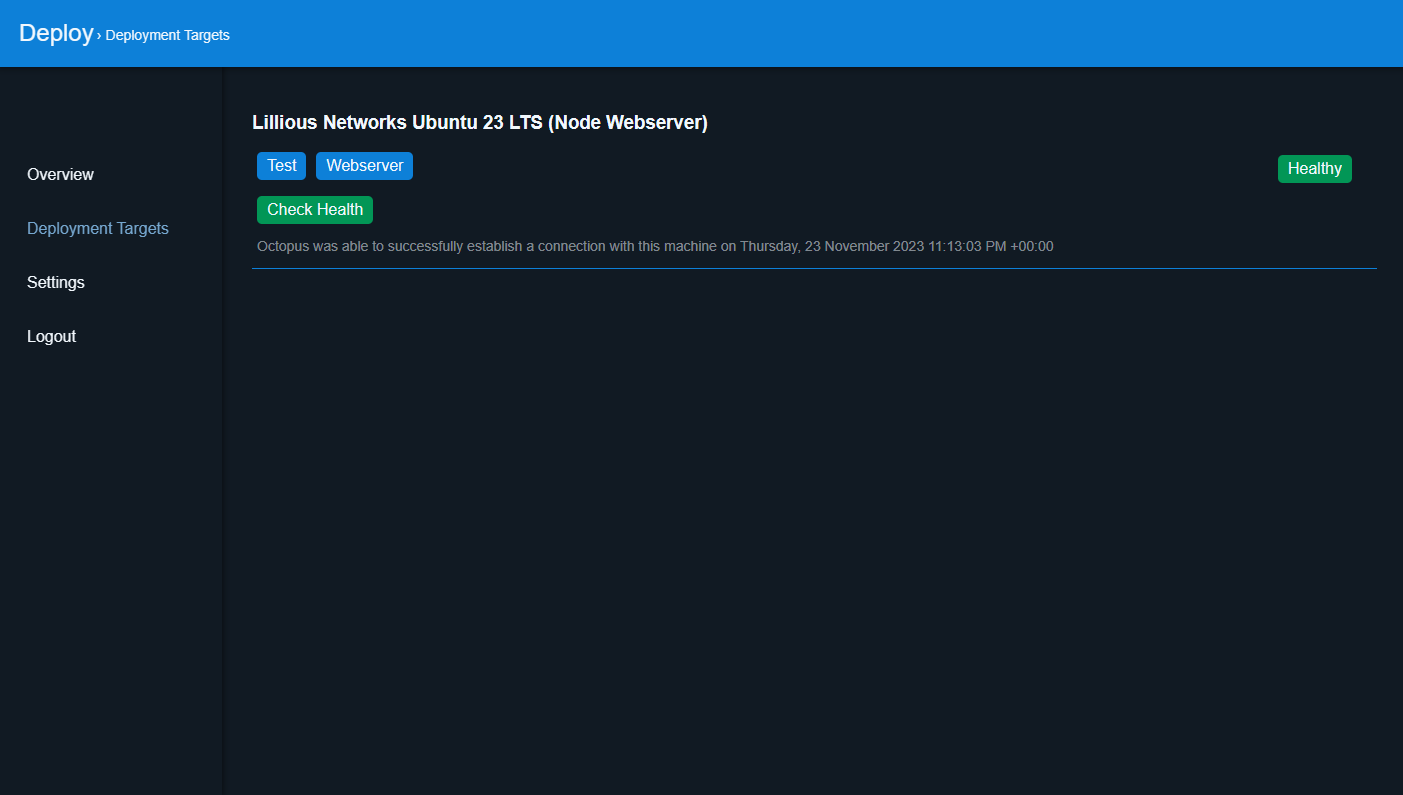
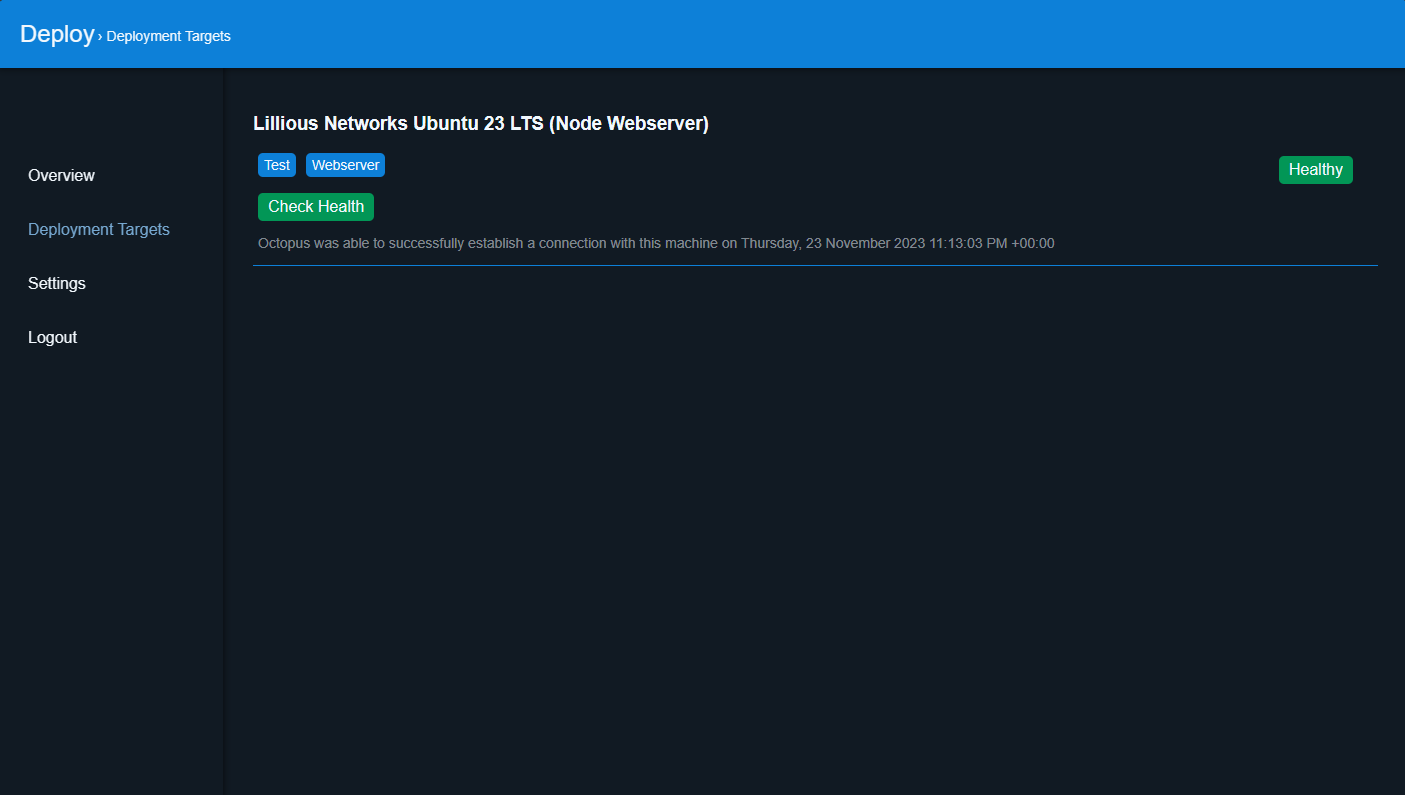
Updated teaser image

diff --git a/src/www/public/css/style.css b/src/www/public/css/style.css
@@ -233,10 +233,6 @@ side-nav ul li:hover {
     margin-left: -40px;
 }
 
-.action {
-    cursor: pointer;
-}
-
 #deployment-targets .deployment-target .roles .role, #deployment-targets .deployment-target .actions .action, #deployment-history .deployment .actions .action {
     display: inline-block;
     padding: 5px 10px;
@@ -244,6 +240,16 @@ side-nav ul li:hover {
     border-radius: 5px;
     background-color: var(--tertiary);
     color: var(--primary);
+}
+
+
+#deployment-targets .deployment-target .roles .role {
+    padding: 4px 6px;
+    font-size: var(--font-small);
+}
+
+#deployment-targets .deployment-target .actions .action {
+    cursor: pointer;
 }
 
 #deployment-targets .deployment-target .health {
